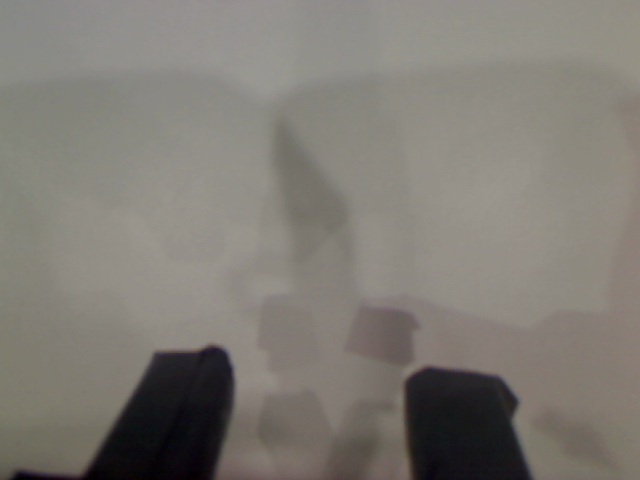
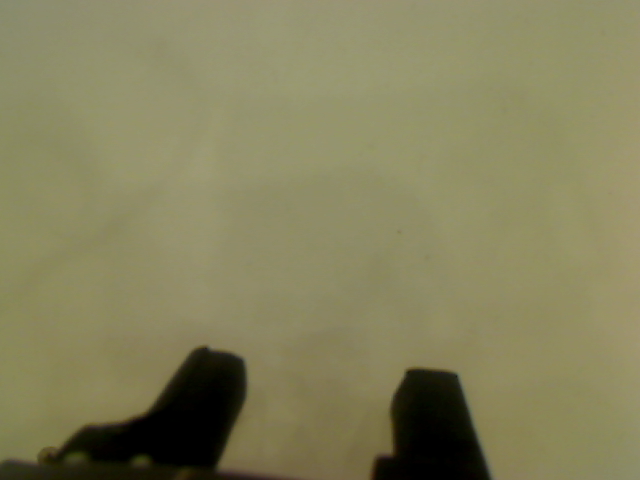
General visual servoing performance enhancements.
- Updated background Image. 
- Switched to new thresholding techinque. 
- Adjusted the centering pose to better grasp the object. 
- Minor code refactoring and removal of "unused" variables.

diff --git a/raw_object_perception/raw_visual_servoing/src/visual_servoing.cpp b/raw_object_perception/raw_visual_servoing/src/visual_servoing.cpp
@@ -143,8 +143,8 @@ public:
     CBlob   temp_tracked_blob; 
     double  temp_tracked_blob_distance = 0; 
 
-    double  x_threshold = 30; 
-    double  y_threshold = 30;
+    double  x_threshold = 35; 
+    double  y_threshold = 35;
 
     double maxx; 
     double minx; 
@@ -180,8 +180,8 @@ public:
     IplImage* gray = cvCreateImage( cvGetSize( cv_image ), IPL_DEPTH_8U, 1 );
     cvCvtColor( cv_image, gray, CV_BGR2GRAY );
     cvSmooth( gray, gray, CV_GAUSSIAN, 7, 7 );
-    cvEqualizeHist( gray, gray ); 
-    cvThreshold( gray, gray, 10, 255, CV_THRESH_BINARY_INV  );
+    //cvEqualizeHist( gray, gray ); 
+    cvThreshold( gray, gray, 0, 255, CV_THRESH_BINARY_INV | CV_THRESH_OTSU );
 
      IplImage* temp_img = cvCreateImage( cvGetSize( background_image ), 8, 1); 
 
@@ -194,11 +194,11 @@ public:
 
     //  Make sure they are big enough to really be considered.
     //  In this case we will use an area of AT LEAST 100 px. 
-    int minimum_blob_area = 300; 
-    int maximum_blob_area = ( master_image_height * master_image_width * 0.3 ); 
+    int minimum_blob_area = ( master_image_height * master_image_width * 0.005 ); 
+    int maximum_blob_area = ( master_image_height * master_image_width * 0.2 ); 
     blobs.Filter( blobs, B_EXCLUDE, CBlobGetArea(), B_LESS, minimum_blob_area ); 
     blobs.Filter( blobs, B_EXCLUDE, CBlobGetArea(), B_GREATER, maximum_blob_area ); 
-
+	    
     //  We will only grab the largest blob on the first pass from that point on we will look for the centroid
     //  of a blob that is closest to the centroid of the largest blob.
     if( first_pass == true )
@@ -263,7 +263,7 @@ public:
     rotation = get_orientation( temp_tracked_blob );  
 
     x_offset = ( tracked_x ) - ( master_image_width / 2 ); 
-    y_offset = ( tracked_y ) - ( (master_image_height/2) + 85 ); 
+    y_offset = ( tracked_y ) - ( (master_image_height/2) + 65 ); 
     rot_offset = rotation; 
 
     //---------------------------------------------------------------------
@@ -365,7 +365,7 @@ public:
           rot_offset = rot_offset - 180; 
       }
 
-      if( ( rot_offset < 86 && rot_offset >= 0 ) || ( rot_offset < 266 && rot_offset >= 235 ) )
+      if( ( rot_offset < 85 && rot_offset >= 0 ) || ( rot_offset < 265 && rot_offset >= 235 ) )
       {
         rotational_speed = -0.2; 
         done_rotational_adjustment = false; 
@@ -424,7 +424,7 @@ public:
     CvFont font;
     cvInitFont(&font, CV_FONT_HERSHEY_SIMPLEX, 1.0, 1.0, 0, 1, CV_AA);
 
-    cvLine( blob_image,   cvPoint( 0, (master_image_height/2) + 85 ), cvPoint( master_image_width, (master_image_height/2) + 85 ), CV_RGB( 255, 0, 0 ), 2, 0 ); 
+    cvLine( blob_image,   cvPoint( 0, (master_image_height/2) + 65 ), cvPoint( master_image_width, (master_image_height/2) + 65 ), CV_RGB( 255, 0, 0 ), 2, 0 ); 
     cvLine( blob_image,   cvPoint( (master_image_width/2), 0 ), cvPoint( (master_image_width/2), master_image_height ), CV_RGB( 255, 0, 0 ), 2, 0 );
     cvRectangle( blob_image, cvPoint( 0, blob_image->height-40 ), cvPoint( blob_image->width, blob_image->height ), CV_RGB( 0, 0, 0 ), -1 );
 
@@ -481,7 +481,7 @@ public:
      //  Incoming message from raw_usb_cam. This must be running in order for this ROS node to run.
     image_subscriber = image_transporter.subscribe( "/usb_cam/image_raw", 1, &raw_visual_servoing::imageCallback, this );
 
-    safe_cmd_vel_service = node_handler.serviceClient<raw_srvs::ReturnBool>("/is_robot_to_close_to_wall ");
+    safe_cmd_vel_service = node_handler.serviceClient<raw_srvs::ReturnBool>("/is_robot_to_close_to_wall");
 
     // Velocity control for the YouBot base.
     base_velocities_publisher = node_handler.advertise<geometry_msgs::Twist>( "/safe_cmd_vel", 1 ); 
